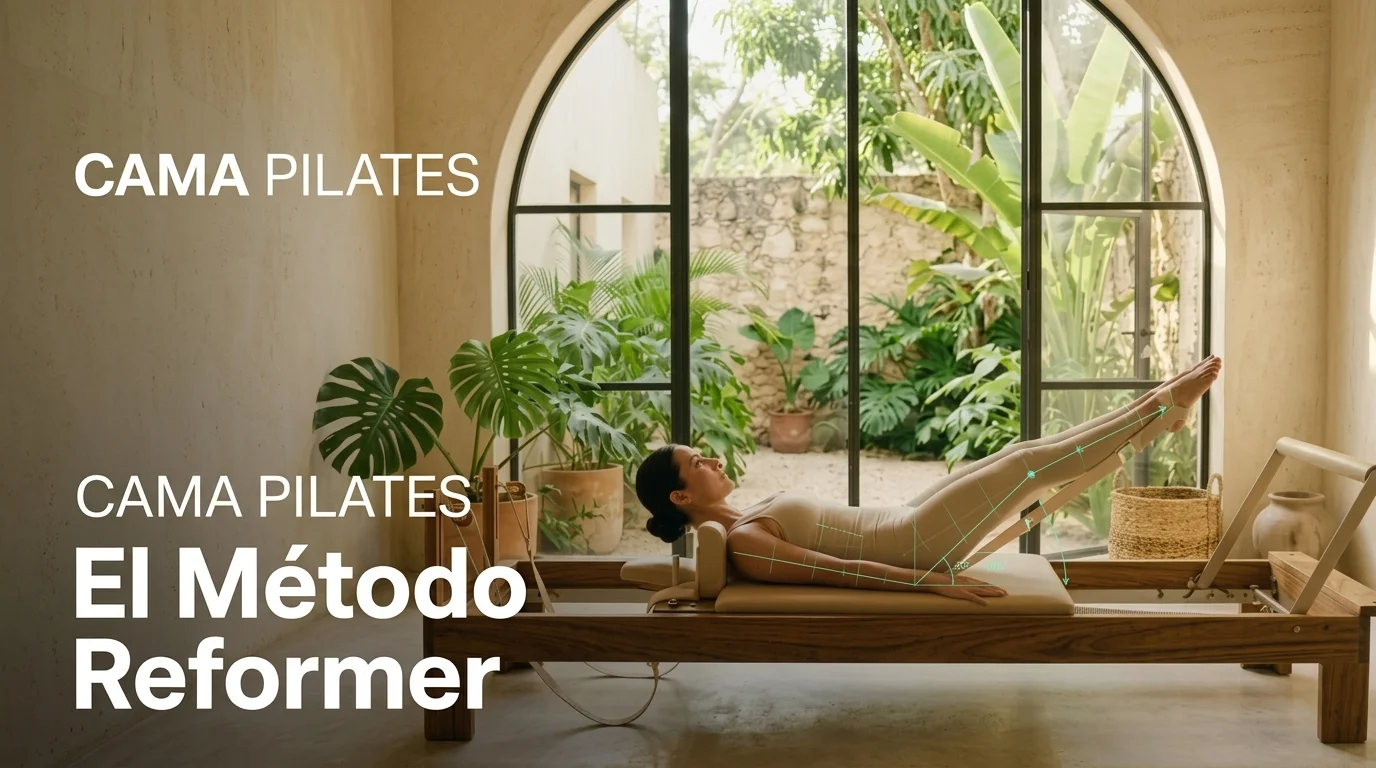
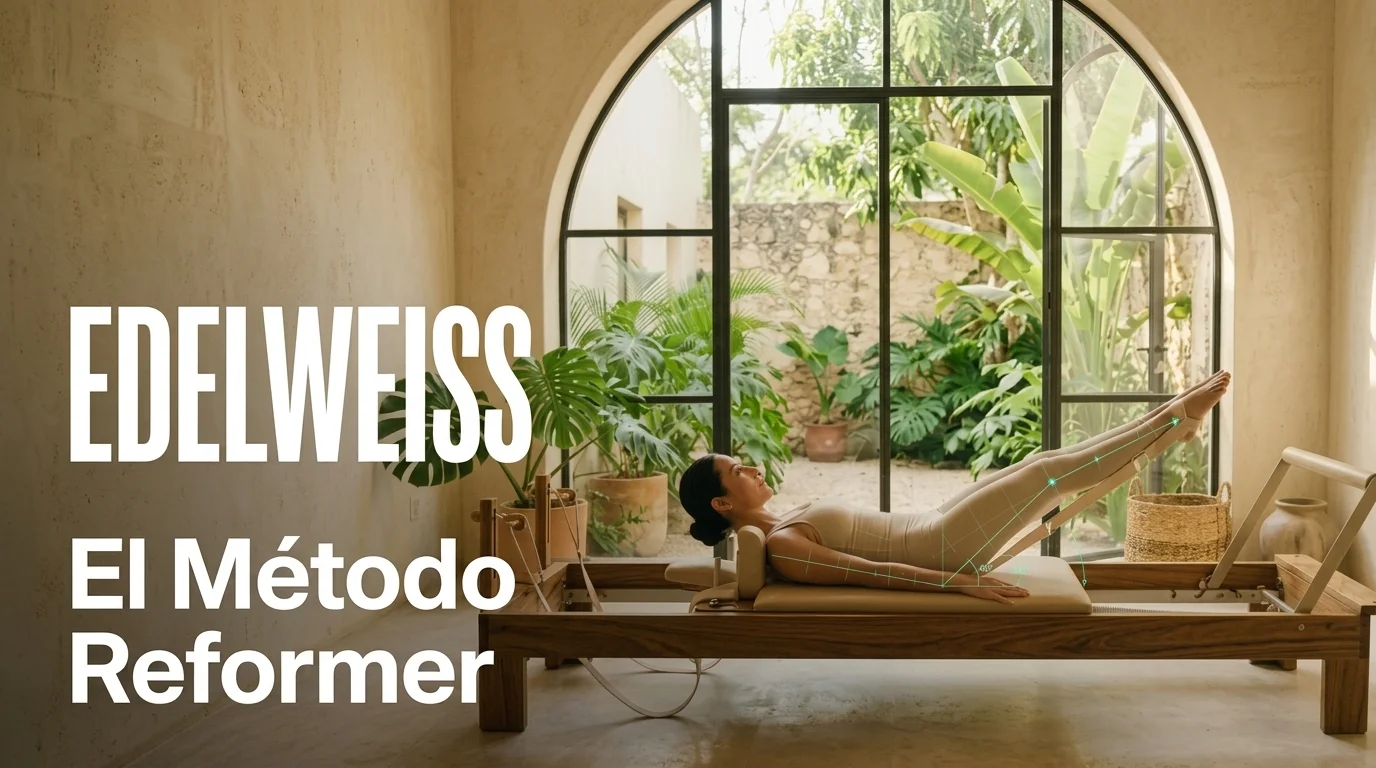
feat(branding): update branding to Edelweiss on hero and press images
- Generate clean high-resolution Edelweiss Baby Pilates hero image with pristine white typography and zero duplicate header text
- Rebuild official press release founders image replacing 'CAMA PILATES' with 'PILATES REFORMER' and 'EDELWEISS-PILATES.COM'
- Update image manifest and static prerender build

🤖 Generated with [Claude Code](https://claude.com/claude-code)

diff --git a/src/content/blog/principios-alineacion-pilates.md b/src/content/blog/principios-alineacion-pilates.md
@@ -12,7 +12,7 @@ publishDate: '2025-09-28'
 author: CAMA Pilates
 slug: principios-alineacion-pilates
 featured: false
-heroImage: "/images/products/reformer-maple-barra-patentada-a001-box-interior.jpg"
+heroImage: "/images/blog/principios-alineacion-pilates/hero.webp"
 ---
 
 # Principios Alineacion Pilates

diff --git a/src/content/blog/guia-completa-reformer.md b/src/content/blog/guia-completa-reformer.md
@@ -12,7 +12,7 @@ publishDate: '2025-09-27'
 author: CAMA Pilates
 slug: guia-completa-reformer
 featured: false
-heroImage: "/images/products/reformer-maple-barra-patentada-a001.webp"
+heroImage: "/images/blog/guia-completa-reformer/hero.webp"
 ---
 
 # Guía completa del Reformer: Uso y beneficios
